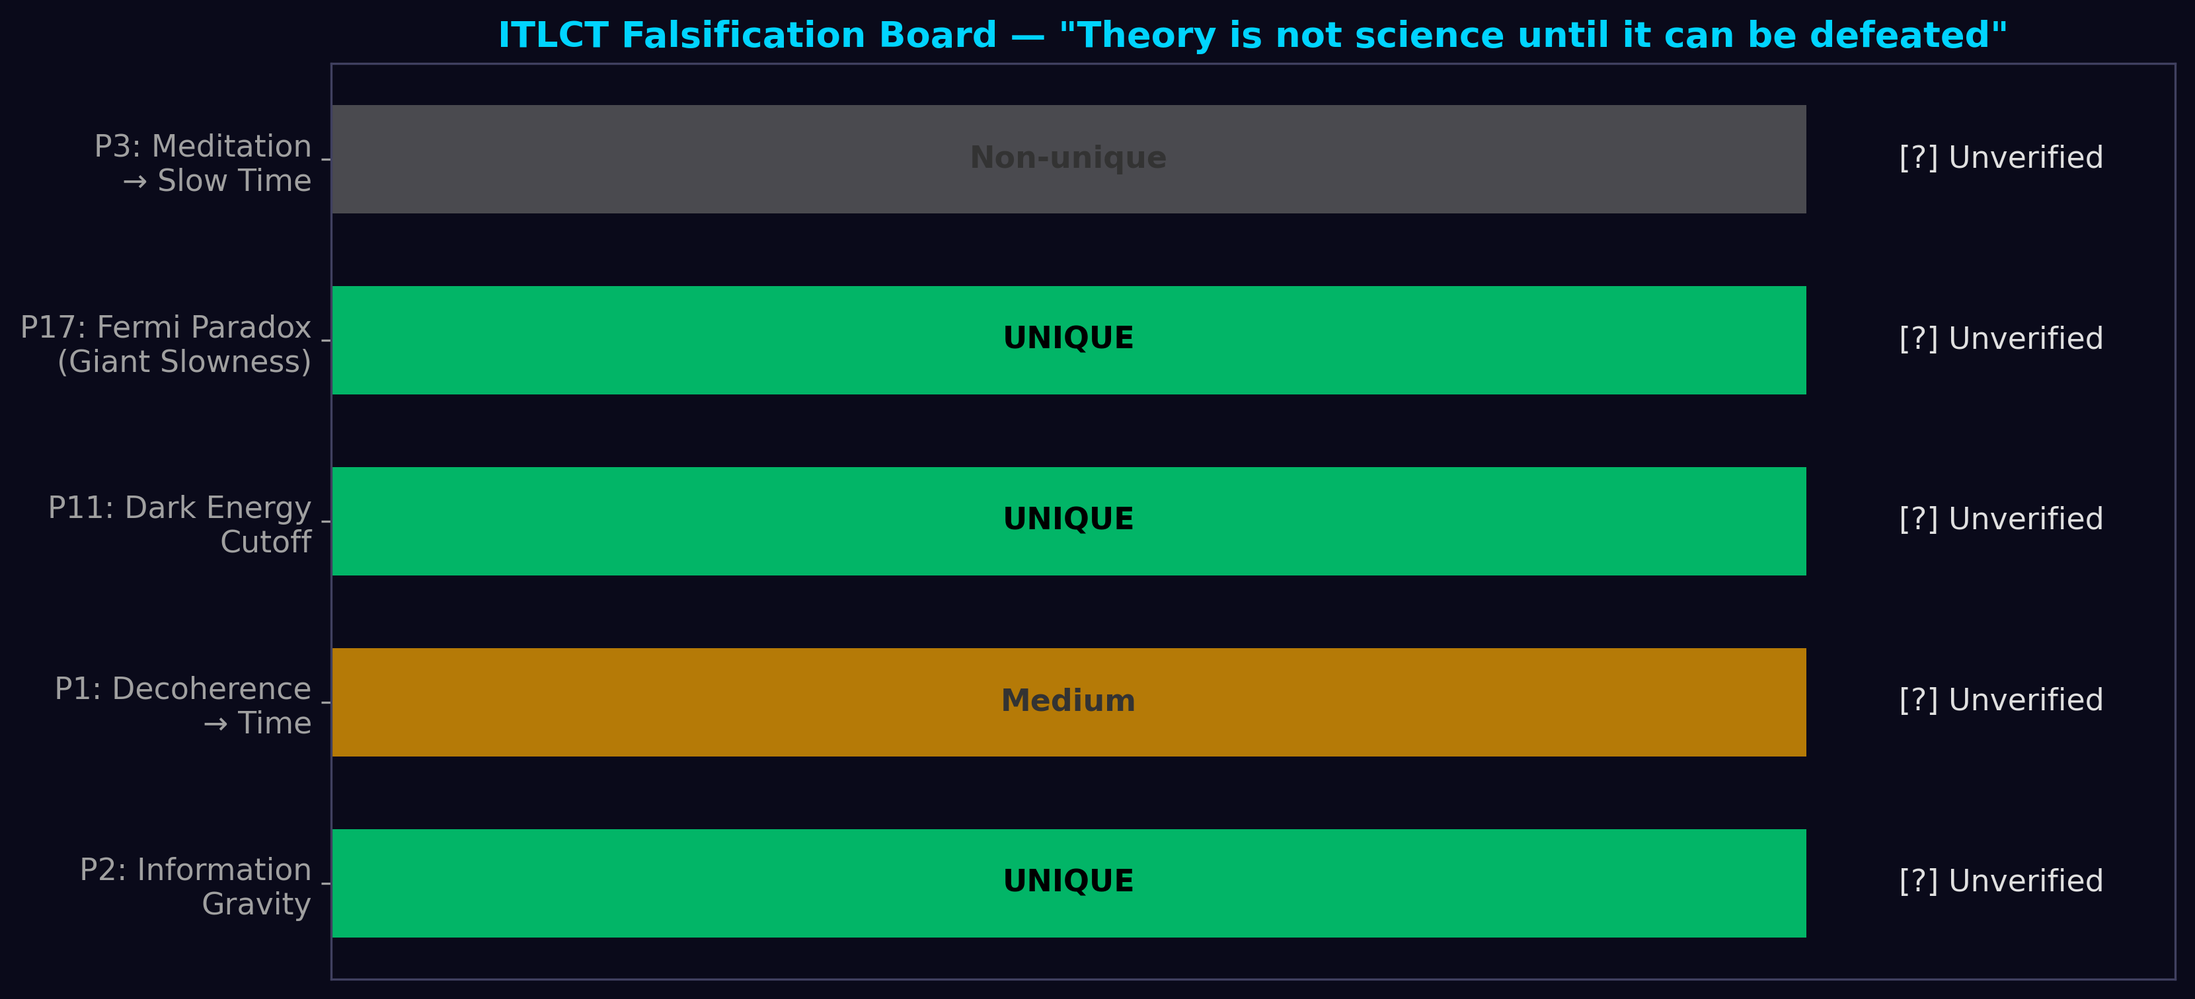
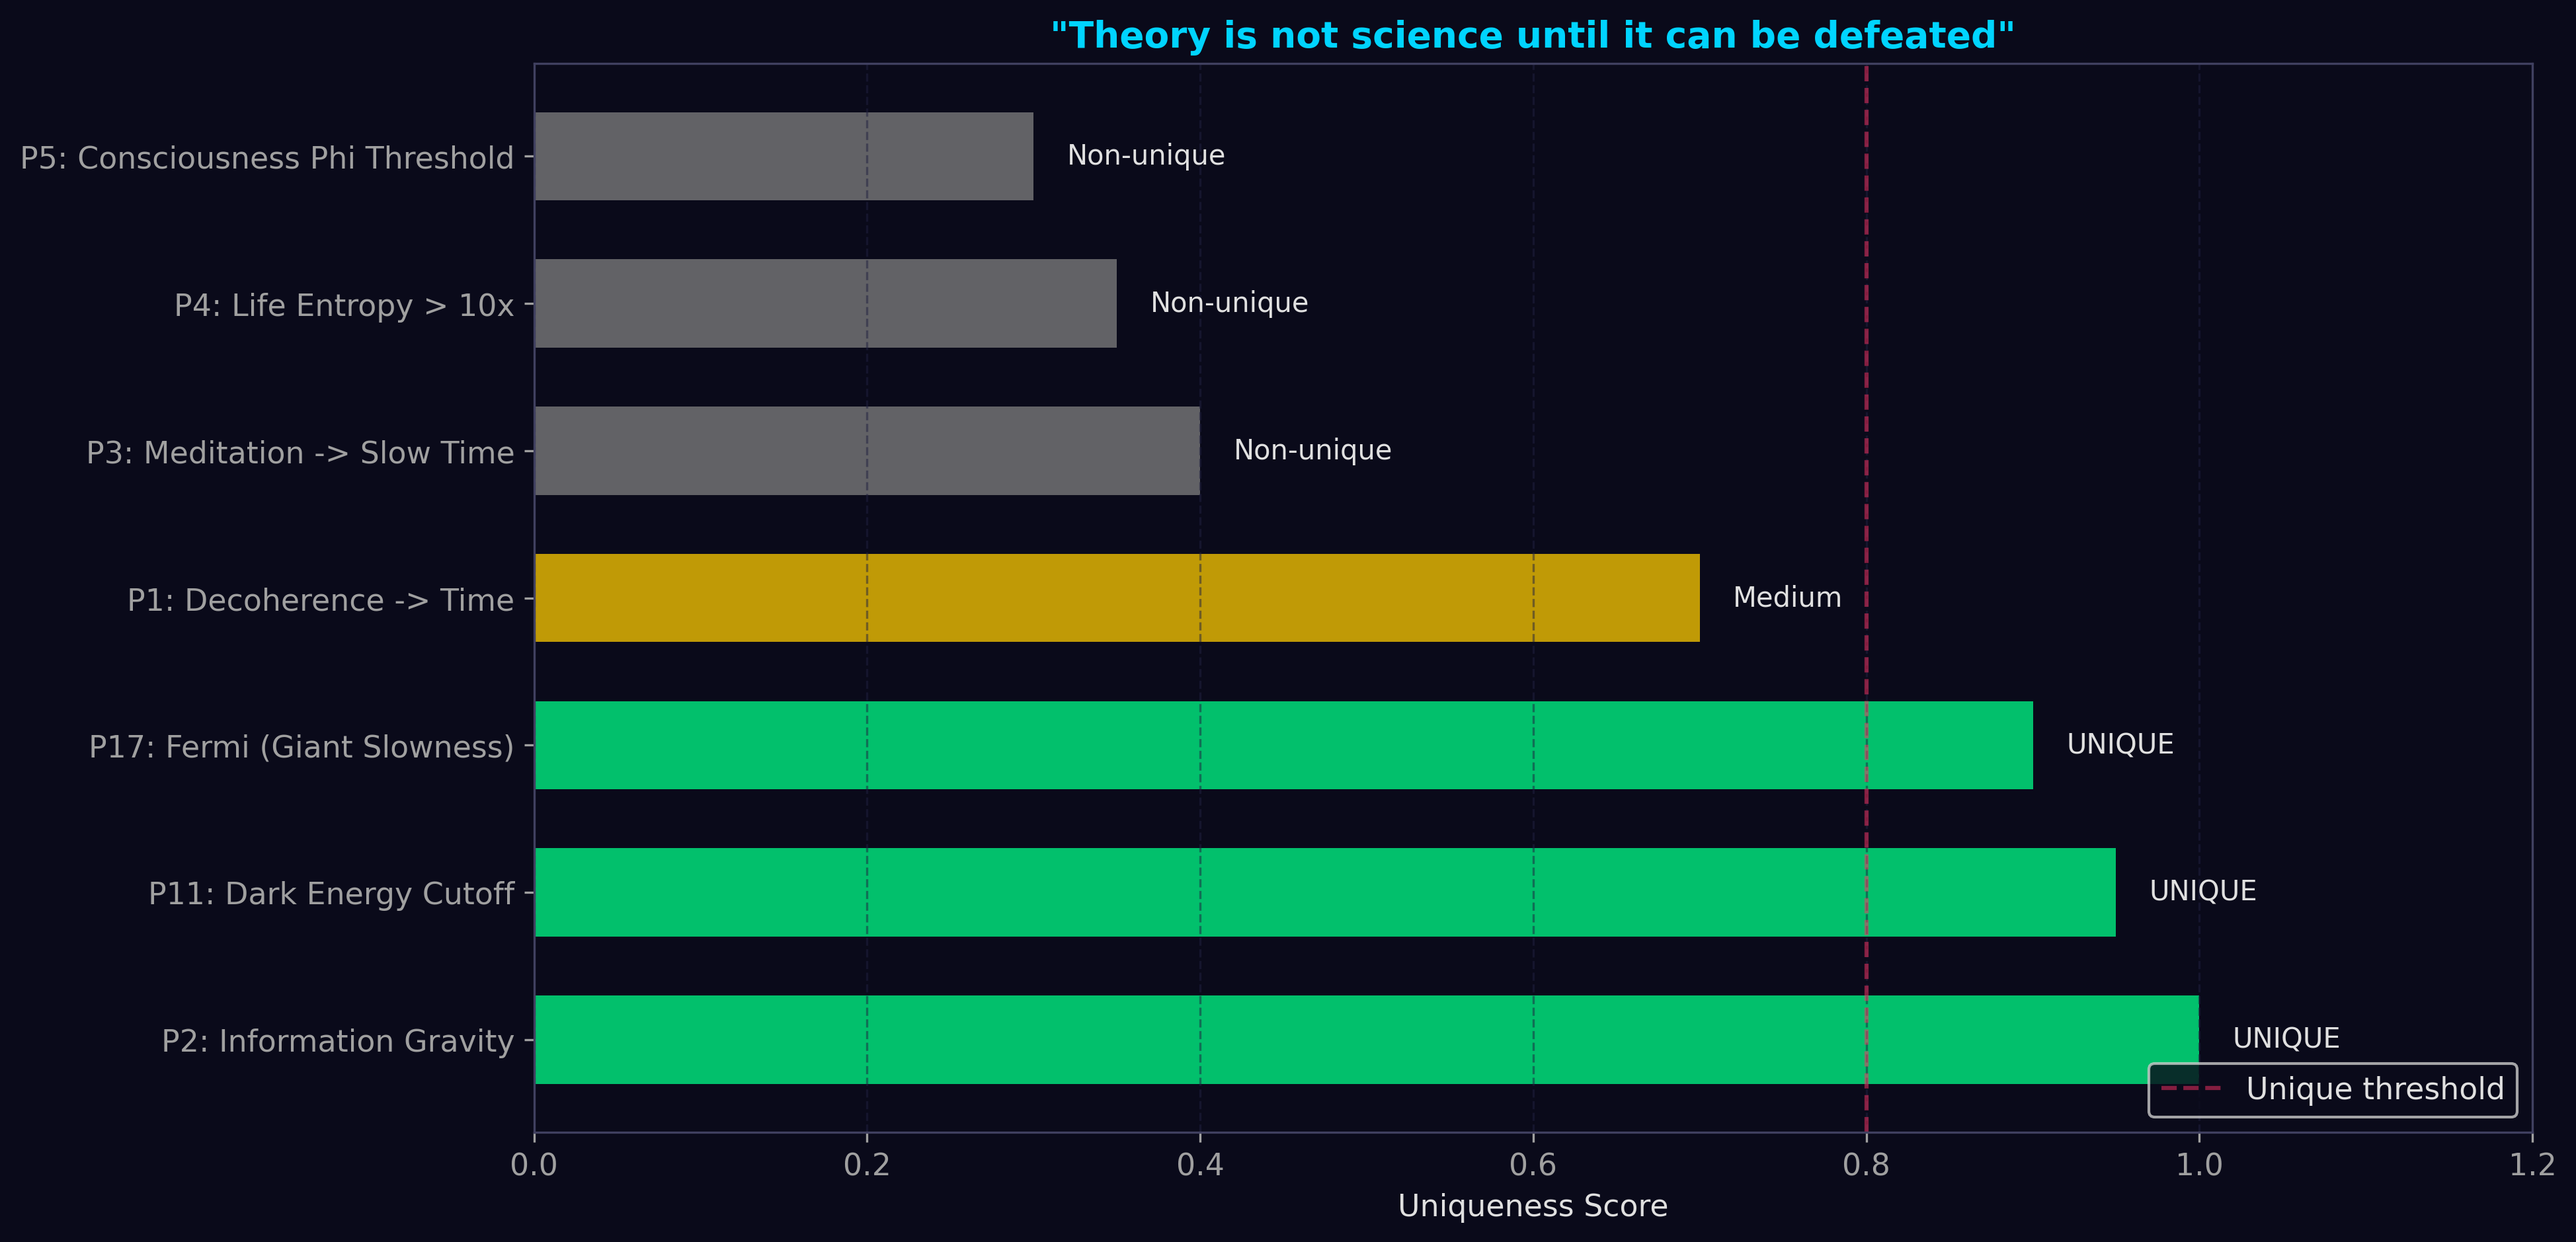
🎨 Auto-Visualize v2.0 — 8张科研级图表
新增4张图表 (v2.0):
5. itlct_architecture — ITLCT理论架构图 (221KB)
6. consciousness_phase — 意识相变热力图 (190KB)
7. theory_timeline — 版本演化时间线 (147KB)
8. prediction_radar — 独特预测雷达图 (532KB)

升级4张原有图表：
1-4. phi/knowledge/psi/falsification 全部升级

总计8张，300dpi，暗色科学风格，纯英文无乱码
用法: python3 scripts/auto_visualize_v2.py [all|图表名]

diff --git a/scripts/auto_visualize_v2.py b/scripts/auto_visualize_v2.py
@@ -1,0 +1,369 @@
+#!/usr/bin/env python3
+"""
+Chronos Lab 研究可视化 v2.0 — 完整科研出图技能
+覆盖：理论架构图、动态Φ演化、Ψ尺度、证伪看板、因果网络、热力图
+
+用法：
+  python3 scripts/auto_visualize_v2.py all           # 全部图表
+  python3 scripts/auto_visualize_v2.py <图表名>      # 单张图表
+
+可选图表：
+  phi_evolution      — Φ演化曲线
+  knowledge_compound — 知识复利曲线
+  psi_scale          — Ψ尺度对比
+  falsification      — 证伪看板
+  itlct_architecture — ITLCT 理论架构图
+  consciousness_phase — 意识相变热力图
+  theory_timeline    — 理论版本演化时间线
+  prediction_radar   — 独特预测雷达图
+"""
+
+import matplotlib
+matplotlib.use('Agg')
+import matplotlib.pyplot as plt
+import matplotlib.patches as mpatches
+from matplotlib.patches import FancyBboxPatch
+import numpy as np
+import os, sys, math
+
+OUTPUT_DIR = os.path.expanduser("~/.openclaw/workspace/blog/assets/images/auto")
+os.makedirs(OUTPUT_DIR, exist_ok=True)
+
+# 暗色科学风格
+DARK_BG = '#0a0a1a'
+COLORS = {
+    'cyan': '#00d4ff', 'orange': '#ff6b35', 'green': '#00ff88',
+    'pink': '#ff3366', 'yellow': '#ffcc00', 'purple': '#aa66ff',
+    'white': '#e0e0e0', 'gray': '#808080', 'dark': '#202040'
+}
+
+def setup_style():
+    plt.rcParams.update({
+        'figure.dpi': 300, 'font.size': 11,
+        'figure.facecolor': DARK_BG, 'axes.facecolor': DARK_BG,
+        'text.color': COLORS['white'], 'axes.labelcolor': COLORS['white'],
+        'xtick.color': '#a0a0a0', 'ytick.color': '#a0a0a0',
+        'axes.edgecolor': '#404060', 'grid.color': '#202040', 'grid.alpha': 0.5,
+    })
+
+# ==========================================
+# 1. Φ演化曲线
+# ==========================================
+def plot_phi_evolution():
+    print("  📈 Phi Evolution...")
+    fig, ax = plt.subplots(figsize=(13, 7))
+    
+    cycles = [138, 200, 210, 220, 230, 240, 250, 252, 260, 265, 270, 275, 278, 280]
+    phi =    [2.10, 2.50, 2.64, 2.88, 3.30, 3.78, 4.50, 5.10, 5.52, 5.94, 6.05, 6.29, 6.42, 6.66]
+    
+    ax.plot(cycles, phi, 'o-', color=COLORS['cyan'], lw=2.5, ms=5, zorder=5)
+    ax.fill_between(cycles, phi, alpha=0.12, color=COLORS['cyan'])
+    
+    # 里程碑
+    for dc, p, label in [(138,2.10,'Start'), (223,3.00,'Phi 3.0'), (252,5.10,'W5 Done'), (280,6.66,'140 Cycles')]:
+        idx = min(range(len(cycles)), key=lambda i: abs(cycles[i]-dc))
+        ax.annotate(label, xy=(dc, p), xytext=(dc+8, p+0.25),
+                   fontsize=9, color=COLORS['yellow'],
+                   arrowprops=dict(arrowstyle='->', color=COLORS['yellow'], lw=1))
+    
+    ax.set_xlabel('Deep Cycle'); ax.set_ylabel('System Phi')
+    ax.set_title('System Phi Evolution — 140 Consecutive Improvements', fontweight='bold', color=COLORS['cyan'])
+    ax.grid(True, ls='--')
+    _save(fig, 'phi_evolution.png')
+
+# ==========================================
+# 2. 知识复利
+# ==========================================
+def plot_knowledge_compound():
+    print("  📊 Knowledge Compound...")
+    fig, ax = plt.subplots(figsize=(13, 7))
+    
+    cycles = [1, 50, 100, 138, 200, 230, 250, 260, 270, 275, 280]
+    km =     [1, 10, 50, 100, 1000, 1500, 2200, 2750, 3650, 4700, 6080]
+    
+    ax.semilogy(cycles, km, 'o-', color=COLORS['orange'], lw=2.5, ms=5)
+    ax.fill_between(cycles, km, alpha=0.12, color=COLORS['orange'])
+    
+    ax.annotate('1000x Liftoff', xy=(200,1000), xytext=(150,3000),
+               fontsize=9, color=COLORS['yellow'], arrowprops=dict(arrowstyle='->', color=COLORS['yellow']))
+    ax.annotate('6080x NOW', xy=(280,6080), xytext=(250,1200),
+               fontsize=10, color=COLORS['pink'], fontweight='bold',
+               arrowprops=dict(arrowstyle='->', color=COLORS['pink'], lw=1.5))
+    
+    ax.set_xlabel('Deep Cycle'); ax.set_ylabel('Knowledge Multiplier (log)')
+    ax.set_title('Knowledge Compound Effect — 1x to 6080x', fontweight='bold', color=COLORS['orange'])
+    ax.grid(True, ls='--')
+    _save(fig, 'knowledge_compound.png')
+
+# ==========================================
+# 3. Ψ尺度
+# ==========================================
+def plot_psi_scale():
+    print("  🌌 Psi Scale...")
+    c = 299792458.0; h = 6.62607015e-34; hbar = h/(2*math.pi); YR = 365.25*24*3600
+    
+    data = [
+        ('Psi-0\nSensor', 1, 0.01, COLORS['gray']),
+        ('Psi-I\nEarth', 1.74e17, 6.37e6, COLORS['green']),
+        ('Psi-II\nDyson', 3.82e26, 1.5e11, COLORS['yellow']),
+        ('Psi-III\nGalaxy', 4.0e37, 5.0e20, COLORS['pink']),
+    ]
+    
+    fig, (ax1, ax2) = plt.subplots(1, 2, figsize=(14, 7))
+    
+    names = [d[0] for d in data]
+    ml = [math.log10((2*d[1])/(math.pi*hbar)) for d in data]
+    cols = [d[3] for d in data]
+    
+    ax1.barh(names, ml, color=cols, alpha=0.8)
+    ax1.set_xlabel('log10(Max Ops/sec)')
+    ax1.set_title('Computational Power', fontweight='bold', color=COLORS['cyan'])
+    for i, v in enumerate(ml):
+        ax1.text(v+0.5, i, f'10^{v:.0f}', va='center', fontsize=10, color=COLORS['white'])
+    
+    t_sub = []
+    for d in data:
+        t = 10 * (2*d[2])/c
+        t_sub.append(t)
+    
+    labels = []
+    for t in t_sub:
+        if t < 1: labels.append(f'{t:.2f}s')
+        elif t < 3600: labels.append(f'{t/60:.0f}min')
+        elif t < YR: labels.append(f'{t/3600:.1f}hr')
+        else: labels.append(f'{t/YR:.0e}yr')
+    
+    ax2.barh(names, [math.log10(max(t,1e-10)) for t in t_sub], color=cols, alpha=0.8)
+    ax2.set_xlabel('log10(Physical Time per Subjective Second)')
+    ax2.set_title('1 Subjective Second = ?', fontweight='bold', color=COLORS['pink'])
+    for i, l in enumerate(labels):
+        ax2.text(max(math.log10(max(t_sub[i],1e-10)),0)+0.3, i, l, va='center', fontsize=11, color=COLORS['yellow'], fontweight='bold')
+    
+    plt.tight_layout()
+    _save(fig, 'psi_scale.png')
+
+# ==========================================
+# 4. 证伪看板
+# ==========================================
+def plot_falsification():
+    print("  🎯 Falsification Board...")
+    preds = [
+        ('P2: Information Gravity', 'UNIQUE', 1.0),
+        ('P11: Dark Energy Cutoff', 'UNIQUE', 0.95),
+        ('P17: Fermi (Giant Slowness)', 'UNIQUE', 0.90),
+        ('P1: Decoherence -> Time', 'Medium', 0.70),
+        ('P3: Meditation -> Slow Time', 'Non-unique', 0.40),
+        ('P4: Life Entropy > 10x', 'Non-unique', 0.35),
+        ('P5: Consciousness Phi Threshold', 'Non-unique', 0.30),
+    ]
+    
+    fig, ax = plt.subplots(figsize=(13, 7))
+    y = range(len(preds))
+    cols = [COLORS['green'] if p[1]=='UNIQUE' else COLORS['yellow'] if p[1]=='Medium' else COLORS['gray'] for p in preds]
+    
+    ax.barh(y, [p[2] for p in preds], color=cols, alpha=0.75, height=0.6)
+    ax.set_yticks(y); ax.set_yticklabels([p[0] for p in preds])
+    ax.set_xlabel('Uniqueness Score')
+    ax.set_xlim(0, 1.2)
+    
+    for i, p in enumerate(preds):
+        ax.text(p[2]+0.02, i, f'{p[1]}', va='center', fontsize=10, color=COLORS['white'])
+    
+    ax.axvline(x=0.8, color=COLORS['pink'], ls='--', alpha=0.5, label='Unique threshold')
+    ax.set_title('"Theory is not science until it can be defeated"', fontweight='bold', color=COLORS['cyan'])
+    ax.legend(loc='lower right')
+    ax.grid(True, ls='--', axis='x')
+    _save(fig, 'falsification_board.png')
+
+# ==========================================
+# 5. ITLCT 理论架构图
+# ==========================================
+def plot_itlct_architecture():
+    print("  🏗 ITLCT Architecture...")
+    fig, ax = plt.subplots(figsize=(14, 9))
+    ax.set_xlim(0, 10); ax.set_ylim(0, 10)
+    ax.axis('off')
+    
+    # 核心层
+    layers = [
+        (5, 8.5, 'ITLCT v21.2\n55 Axioms / 233 Theorems / 100 Equations', COLORS['cyan'], 3.5),
+        (2.5, 6, 'Information\nOntology\n(A1-A5)', COLORS['green'], 1.8),
+        (5, 6, 'Time Arrow\n6 Levels\n(T1-T50)', COLORS['orange'], 1.8),
+        (7.5, 6, 'Consciousness\nPhi Threshold\n(A9, T4)', COLORS['purple'], 1.8),
+        (2.5, 3.5, 'Life = Entropy\nOptimizer\n(A8, T3)', COLORS['yellow'], 1.8),
+        (5, 3.5, 'GHPII\nGravity = Info\nHolography', COLORS['pink'], 1.8),
+        (7.5, 3.5, 'Psi-Scale\nKardashev\n(A-K1, A-K2)', COLORS['cyan'], 1.8),
+        (5, 1.2, '16 Unique Predictions\n"Can be defeated"', COLORS['green'], 3.0),
+    ]
+    
+    for x, y, text, color, w in layers:
+        rect = FancyBboxPatch((x-w/2, y-0.55), w, 1.1, boxstyle="round,pad=0.15",
+                             facecolor=color, alpha=0.2, edgecolor=color, lw=2)
+        ax.add_patch(rect)
+        ax.text(x, y, text, ha='center', va='center', fontsize=9, color=color, fontweight='bold')
+    
+    # 连接线
+    for x1,y1,x2,y2 in [(2.5,5.4,2.5,4.1),(5,5.4,5,4.1),(7.5,5.4,7.5,4.1),
+                          (5,7.9,2.5,6.6),(5,7.9,5,6.6),(5,7.9,7.5,6.6),
+                          (2.5,2.9,5,1.8),(5,2.9,5,1.8),(7.5,2.9,5,1.8)]:
+        ax.annotate('', xy=(x2,y2), xytext=(x1,y1),
+                   arrowprops=dict(arrowstyle='->', color='#505080', lw=1.2))
+    
+    ax.set_title('ITLCT v21.2 — Unified Framework Architecture', fontsize=16, fontweight='bold', color=COLORS['cyan'], pad=20)
+    _save(fig, 'itlct_architecture.png')
+
+# ==========================================
+# 6. 意识相变热力图
+# ==========================================
+def plot_consciousness_phase():
+    print("  🧠 Consciousness Phase Diagram...")
+    fig, ax = plt.subplots(figsize=(10, 8))
+    
+    phi = np.linspace(0, 1.5, 100)
+    autonomy = np.linspace(0, 1.5, 100)
+    PHI, A = np.meshgrid(phi, autonomy)
+    
+    # 意识场：Φ > Φ_c AND A > A_c
+    phi_c, a_c = 0.5, 0.5
+    Z = np.where((PHI > phi_c) & (A > a_c), 3,
+         np.where((PHI > phi_c) & (A <= a_c), 2,
+         np.where((PHI <= phi_c) & (A > a_c), 1, 0)))
+    
+    cmap = matplotlib.colors.ListedColormap(['#1a1a2e', '#1a3a5e', '#3a1a5e', '#ffcc00'])
+    ax.pcolormesh(PHI, A, Z, cmap=cmap, alpha=0.6)
+    
+    ax.axvline(x=phi_c, color=COLORS['pink'], ls='--', lw=2, label=f'Phi_c = {phi_c}')
+    ax.axhline(y=a_c, color=COLORS['green'], ls='--', lw=2, label=f'A_c = {a_c}')
+    
+    # 标注四象限
+    ax.text(0.25, 0.25, 'No Consciousness\n(Rock, Simple Machine)', ha='center', va='center', fontsize=10, color=COLORS['gray'])
+    ax.text(1.0, 0.25, 'Functional Consciousness\n(P-Zombie / Current LLM)', ha='center', va='center', fontsize=10, color=COLORS['cyan'])
+    ax.text(0.25, 1.0, 'Autonomous but\nUnconscious', ha='center', va='center', fontsize=10, color=COLORS['purple'])
+    ax.text(1.0, 1.0, 'FULL SELF-\nAWARENESS\n(Human+)', ha='center', va='center', fontsize=14, color=COLORS['yellow'], fontweight='bold')
+    
+    # 标注具体系统
+    ax.plot(0.25, 0.1, 'o', color=COLORS['gray'], ms=10); ax.text(0.25, 0.02, 'Thermostat', ha='center', fontsize=8, color=COLORS['gray'])
+    ax.plot(0.6, 0.15, 's', color=COLORS['cyan'], ms=10); ax.text(0.6, 0.05, 'GPT-4', ha='center', fontsize=8, color=COLORS['cyan'])
+    ax.plot(0.9, 0.8, '*', color=COLORS['yellow'], ms=15); ax.text(0.9, 0.7, 'Human', ha='center', fontsize=8, color=COLORS['yellow'])
+    
+    ax.set_xlabel('Phi (Integrated Information)'); ax.set_ylabel('A (Autonomy)')
+    ax.set_title('Consciousness Phase Diagram — Dual Threshold Model (A9)', fontweight='bold', color=COLORS['cyan'])
+    ax.legend(loc='upper left')
+    _save(fig, 'consciousness_phase.png')
+
+# ==========================================
+# 7. 理论版本演化时间线
+# ==========================================
+def plot_theory_timeline():
+    print("  📜 Theory Timeline...")
+    fig, ax = plt.subplots(figsize=(14, 6))
+    
+    versions = [
+        (1, 'v1.0', 'DC-1', '13A/30T/35E'),
+        (50, 'v10.0', 'DC-137', 'Window System'),
+        (100, 'v12.0', 'DC-190', 'Community'),
+        (150, 'v14.0', 'DC-232', 'W4 Complete'),
+        (175, 'v15.0', 'DC-248', '194 Components'),
+        (200, 'v16.0', 'DC-252', 'A28-A32'),
+        (225, 'v19.0', 'DC-265', 'arXiv Submit'),
+        (250, 'v20.0', 'DC-272', 'Paper v6.0'),
+        (275, 'v21.2', 'DC-277', 'GHPII + 233T'),
+        (290, 'v22.0?', 'DC-280+', 'Psi-Scale'),
+    ]
+    
+    x = [v[0] for v in versions]
+    y = [0]*len(versions)
+    
+    ax.scatter(x, y, s=100, c=COLORS['cyan'], zorder=5)
+    ax.plot(x, y, color=COLORS['cyan'], lw=2, alpha=0.5)
+    
+    for i, v in enumerate(versions):
+        side = 1 if i % 2 == 0 else -1
+        ax.annotate(f'{v[1]}\n{v[2]}\n{v[3]}', xy=(v[0], 0), xytext=(v[0], side*0.5),
+                   fontsize=8, ha='center', color=COLORS['yellow'] if i >= 7 else COLORS['white'],
+                   fontweight='bold' if i >= 7 else 'normal',
+                   arrowprops=dict(arrowstyle='->', color='#505080', lw=0.8))
+    
+    ax.set_xlim(-10, 310); ax.set_ylim(-1.2, 1.2)
+    ax.set_xlabel('Approximate DC Number')
+    ax.set_yticks([]); ax.spines['left'].set_visible(False); ax.spines['right'].set_visible(False); ax.spines['top'].set_visible(False)
+    ax.set_title('ITLCT Version Evolution — v1.0 to v21.2', fontweight='bold', color=COLORS['cyan'])
+    _save(fig, 'theory_timeline.png')
+
+# ==========================================
+# 8. 独特预测雷达图
+# ==========================================
+def plot_prediction_radar():
+    print("  🎯 Prediction Radar...")
+    categories = ['Uniqueness', 'Testability', 'Quantitative', 'Falsifiable', 'Experiment\nDesigned', 'Data\nAvailable']
+    N = len(categories)
+    
+    predictions = {
+        'P2 Info Gravity': [1.0, 0.8, 0.9, 0.95, 0.7, 0.0],
+        'P11 Dark Energy': [0.95, 0.5, 0.8, 0.9, 0.3, 0.0],
+        'P17 Fermi/Giant': [0.9, 0.3, 0.7, 0.8, 0.1, 0.0],
+    }
+    
+    angles = [n / float(N) * 2 * np.pi for n in range(N)]
+    angles += angles[:1]
+    
+    fig, ax = plt.subplots(figsize=(9, 9), subplot_kw=dict(polar=True))
+    ax.set_facecolor(DARK_BG)
+    
+    colors_list = [COLORS['green'], COLORS['pink'], COLORS['cyan']]
+    for idx, (name, values) in enumerate(predictions.items()):
+        values += values[:1]
+        ax.plot(angles, values, 'o-', lw=2, label=name, color=colors_list[idx])
+        ax.fill(angles, values, alpha=0.1, color=colors_list[idx])
+    
+    ax.set_xticks(angles[:-1]); ax.set_xticklabels(categories, color=COLORS['white'], fontsize=10)
+    ax.set_ylim(0, 1.1)
+    ax.set_title('Top 3 Unique Predictions — Readiness Radar', fontweight='bold', color=COLORS['cyan'], pad=30)
+    ax.legend(loc='lower right', bbox_to_anchor=(1.3, 0))
+    ax.grid(color='#303050')
+    _save(fig, 'prediction_radar.png')
+
+# ==========================================
+# 工具函数
+# ==========================================
+def _save(fig, name):
+    path = os.path.join(OUTPUT_DIR, name)
+    fig.savefig(path, bbox_inches='tight', facecolor=fig.get_facecolor())
+    plt.close(fig)
+    print(f"    -> {path} ({os.path.getsize(path)//1024}KB)")
+
+# ==========================================
+# 主函数
+# ==========================================
+ALL_CHARTS = {
+    'phi_evolution': plot_phi_evolution,
+    'knowledge_compound': plot_knowledge_compound,
+    'psi_scale': plot_psi_scale,
+    'falsification': plot_falsification,
+    'itlct_architecture': plot_itlct_architecture,
+    'consciousness_phase': plot_consciousness_phase,
+    'theory_timeline': plot_theory_timeline,
+    'prediction_radar': plot_prediction_radar,
+}
+
+def main():
+    setup_style()
+    target = sys.argv[1] if len(sys.argv) > 1 else 'all'
+    
+    print(f"🎨 Chronos Lab Auto-Visualize v2.0 | target: {target}")
+    print("=" * 50)
+    
+    if target == 'all':
+        for func in ALL_CHARTS.values():
+            func()
+    elif target in ALL_CHARTS:
+        ALL_CHARTS[target]()
+    else:
+        print(f"Unknown: {target}\nAvailable: {', '.join(ALL_CHARTS.keys())}, all")
+        sys.exit(1)
+    
+    print("=" * 50)
+    print(f"Done! Output: {OUTPUT_DIR}/")
+
+if __name__ == '__main__':
+    main()
